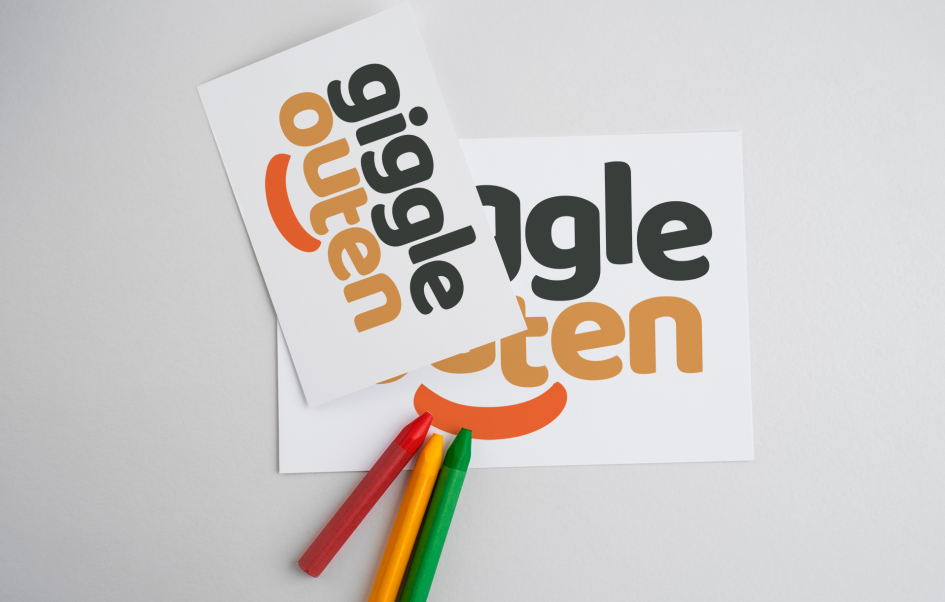
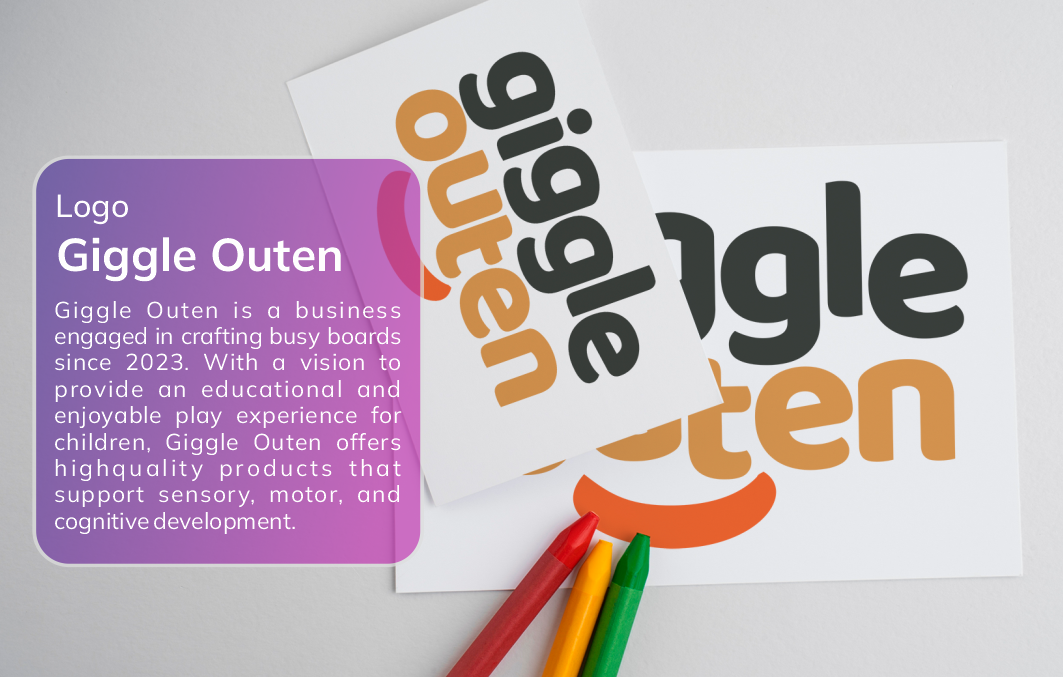
ganti gambar

diff --git a/data/projects.ts b/data/projects.ts
@@ -21,8 +21,8 @@ export const allProjects: Project[] = [
     {
         slug: 'logo-design', // <-- TAMBAHKAN INI
         category: 'Graphic Design',
-        image: '/images/design2.png',
-        title: 'Logo Design',
+        image: '/images/banner-logo.png',
+        title: 'Logo & Branding',
            content: [
       { 
         type: 'heading', 
@@ -34,34 +34,34 @@ export const allProjects: Project[] = [
         src: '/images/giggle.png', // Gambar detail di dalam "blog"
         alt: 'logo giggle outen' 
       },
-      { 
-        type: 'paragraph', 
-        text: 'Giggle outem adalah brand untuk mainan kayu edukatif untuk anak.' 
-      },
+      // { 
+      //   type: 'paragraph', 
+      //   text: 'Giggle outem adalah brand untuk mainan kayu edukatif untuk anak.' 
+      // },
     ]
     },
 
     {
         slug: 'feed-instagram-design', // <-- TAMBAHKAN INI
         category: 'Graphic Design',
-        image: '/images/design1.png',
-        title: 'Feed Instagram Design',
+        image: '/images/katalog-kaos.png',
+        title: 'Tshirt Catalogue Design',
         content: [
       
       { 
         type: 'heading', 
         level: 2, // Ini akan menjadi tag <h2>
-        text: 'Jiecos Instagram Feed' 
+        text: 'katalog kaosenzo.com' 
       },
       { 
         type: 'image', 
-        src: '/images/detail-kopi-1.jpg', // Gambar detail di dalam "blog"
+        src: '/images/katalog-enzo.png', // Gambar detail di dalam "blog"
         alt: 'Proses sketsa logo kopi' 
       },
-      { 
-        type: 'paragraph', 
-        text: 'Jiecos adalah brand skincare' 
-      },
+      // { 
+      //   type: 'paragraph', 
+      //   text: 'Jiecos adalah brand skincare' 
+      // },
     ]
     },
     {
